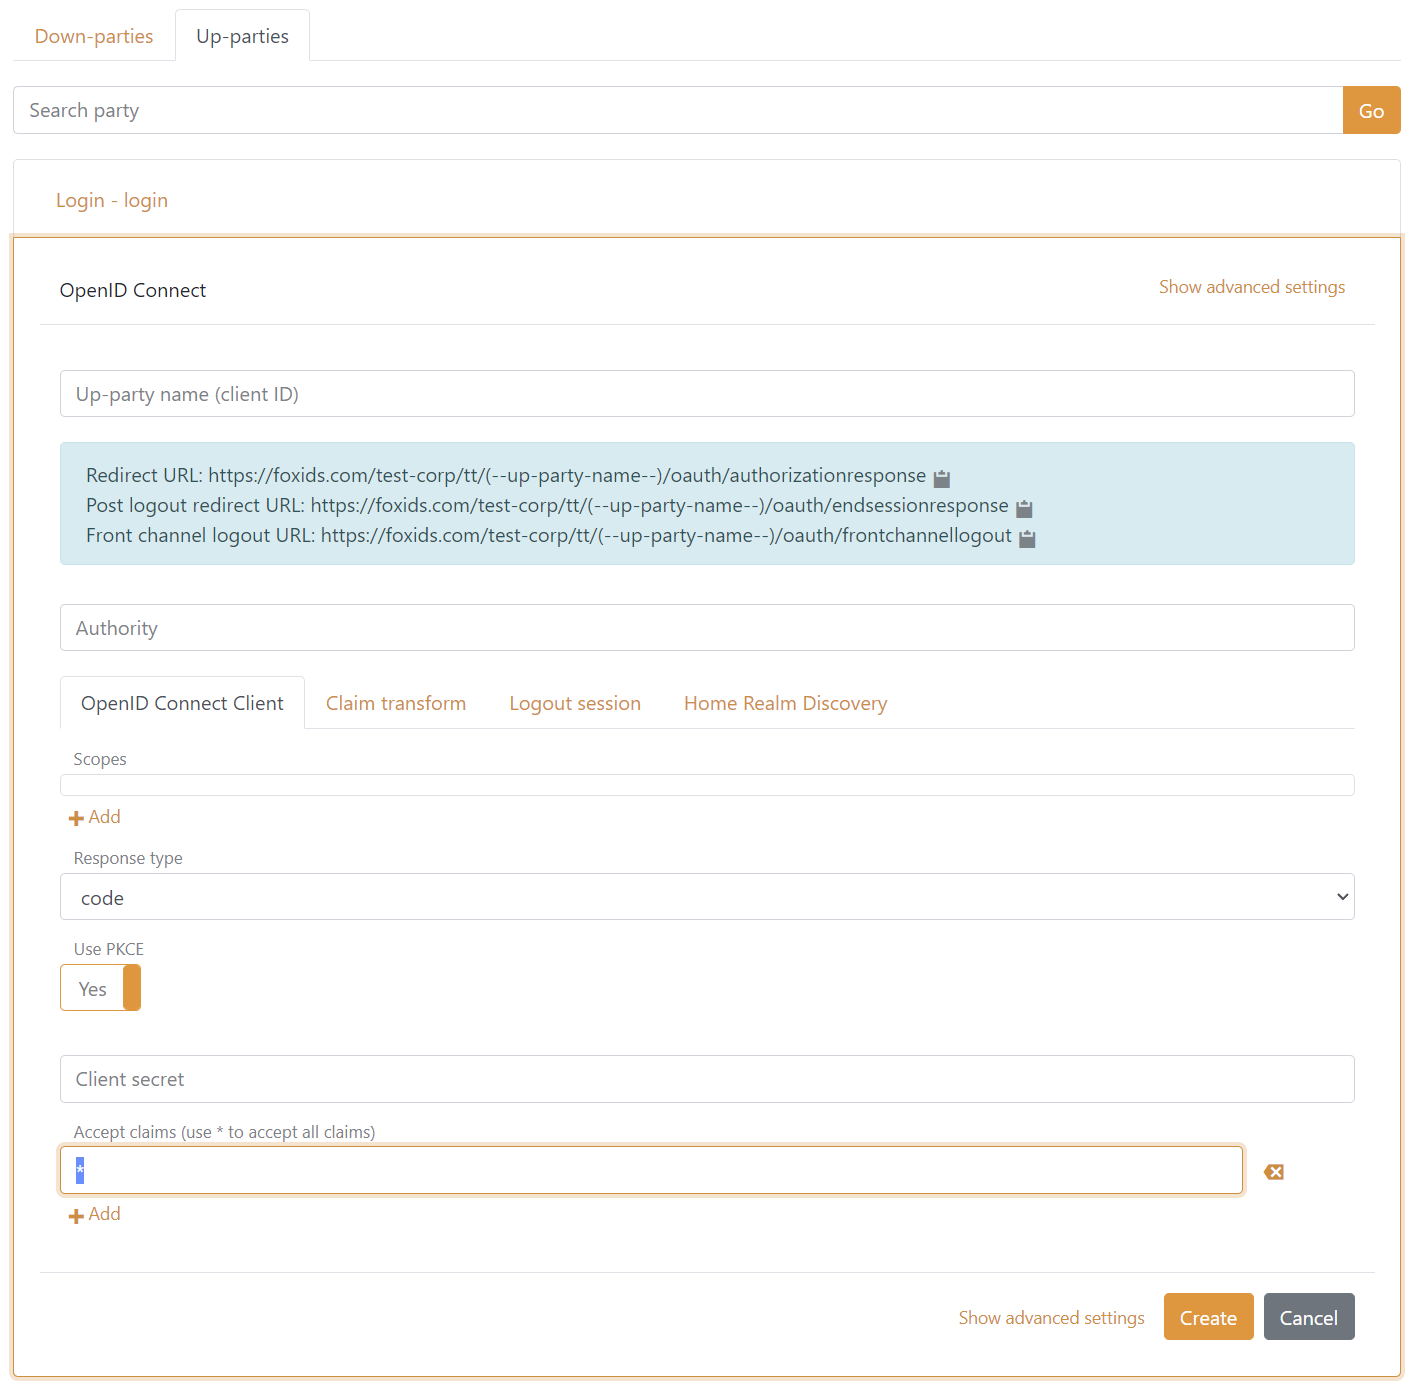
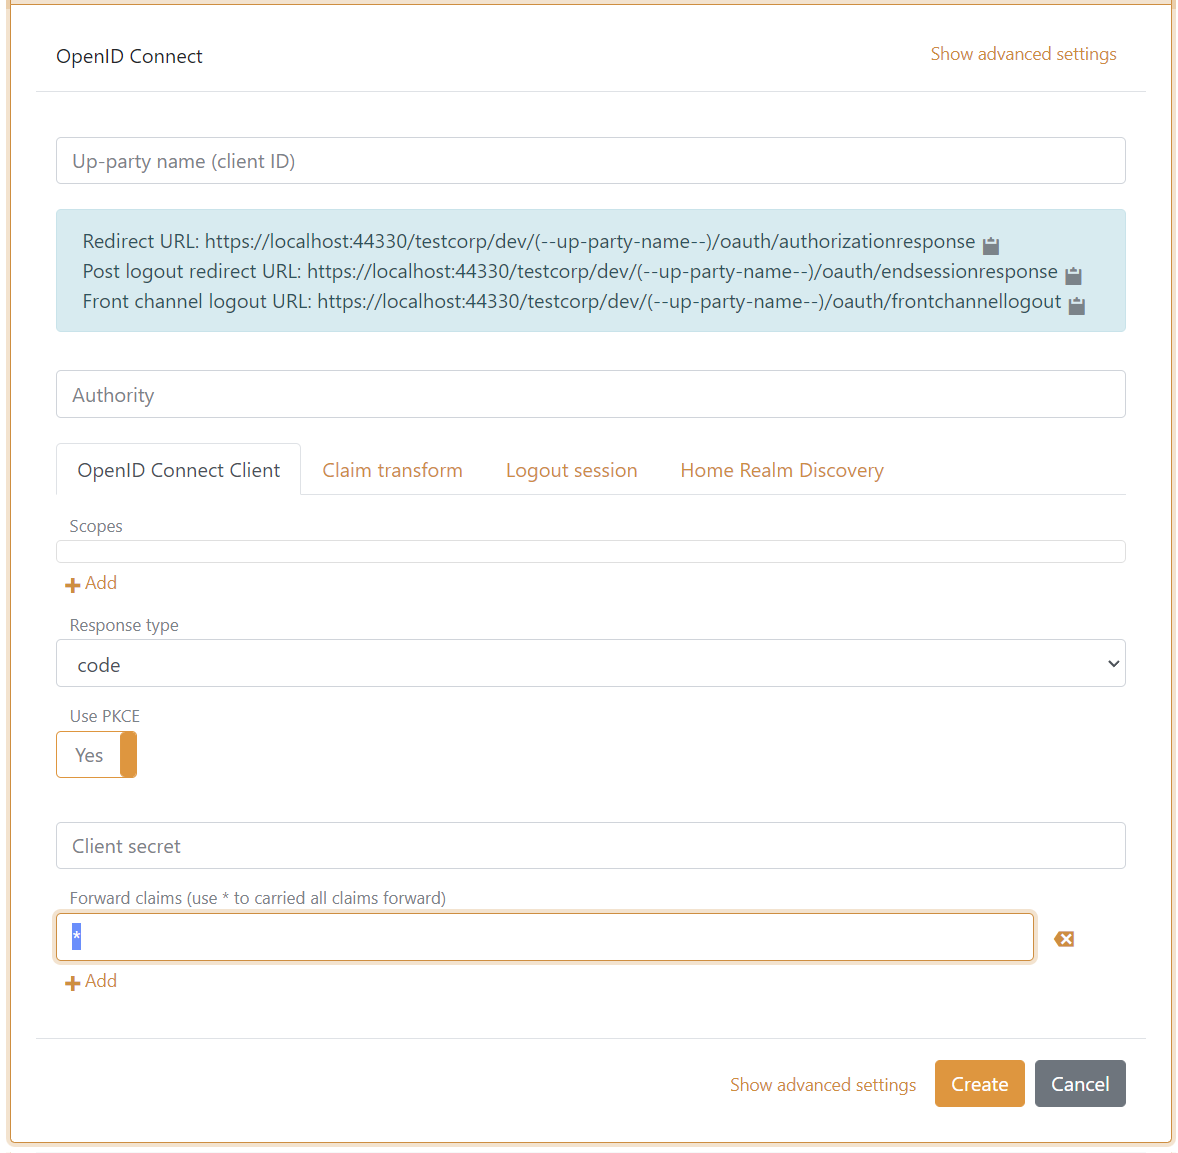
docs claims and Accept claims changed to Forward claims

diff --git a/src/FoxIDs.ControlClient/Models/ViewModels/Parties/OidcUpClientViewModel.cs b/src/FoxIDs.ControlClient/Models/ViewModels/Parties/OidcUpClientViewModel.cs
@@ -16,7 +16,7 @@ namespace FoxIDs.Client.Models.ViewModels
         public List<string> Scopes { get; set; }
 
         [Length(Constants.Models.OAuthUpParty.Client.ClaimsMin, Constants.Models.OAuthUpParty.Client.ClaimsMax, Constants.Models.Claim.JwtTypeLength, Constants.Models.Claim.JwtTypeWildcardRegExPattern)]
-        [Display(Name = "Accept claims (use * to accept all claims)")]
+        [Display(Name = "Forward claims (use * to carried all claims forward)")]
         public List<string> Claims { get; set; }
 
         [Required]

diff --git a/src/FoxIDs.ControlShared/Models/Api/Parties/OidcUpClient.cs b/src/FoxIDs.ControlShared/Models/Api/Parties/OidcUpClient.cs
@@ -16,7 +16,7 @@ namespace FoxIDs.Models.Api
         public List<string> Scopes { get; set; }
 
         [Length(Constants.Models.OAuthUpParty.Client.ClaimsMin, Constants.Models.OAuthUpParty.Client.ClaimsMax, Constants.Models.Claim.JwtTypeLength, Constants.Models.Claim.JwtTypeWildcardRegExPattern)]
-        [Display(Name = "Accept claims (use * to accept all claims)")]
+        [Display(Name = "Forward claims (use * to carried all claims forward)")]
         public List<string> Claims { get; set; }
 
         [Required]

diff --git a/src/FoxIDs.ControlClient/Models/ViewModels/Parties/SamlUpPartyViewModel.cs b/src/FoxIDs.ControlClient/Models/ViewModels/Parties/SamlUpPartyViewModel.cs
@@ -56,7 +56,7 @@ namespace FoxIDs.Client.Models.ViewModels
 
         [ValidateComplexType]
         [Length(Constants.Models.SamlParty.ClaimsMin, Constants.Models.SamlParty.ClaimsMax, Constants.Models.Claim.SamlTypeLength, Constants.Models.Claim.SamlTypeWildcardRegExPattern)]
-        [Display(Name = "Accept claims (use * to accept all claims)")]
+        [Display(Name = "Forward claims (use * to carried all claims forward)")]
         public List<string> Claims { get; set; }
 
         /// <summary>

diff --git a/docs/claim.md b/docs/claim.md
@@ -1,0 +1,22 @@
+# Claims
+
+Claims are processed through each [up-party](#up-party) and [down-party](#down-party), where it is possible to decide, which claims are transferred to the next step and to do [claim transforms](claim-transform.md).
+
+> All claim comparisons are case-sensitive.
+
+The claims process starts in the [up-party](parties.md#up-party) when a user authenticates. There it is possible to do [claim transforms](claim-transform.md) and configure which claims have to be carried forward to the next step.
+Then the claims process continues in the [down-party](parties.md#down-party) where it also is possible do claim transforms and configure which claims have to be issued to the application / API.
+
+In a [Client Credentials Grant](down-party-oauth-2.0.md#client-credentials-grant) scenario, the claims process is only done in the down-party. The same goes for the claim transforms and the configuration of which claims have to be issued to the application / API.
+
+## Up-party
+In both an [OpenID Connect](up-party-oidc.md) and [SAML 2.0](up-party-saml-2.0.md) up-party claims are carried forward by adding them to the `Forward claims` list. All claims are carried forward if a wildcard `*` is added to the `Forward claims` list.
+
+## Down-party
+In both an [OpenID Connect](down-party-oidc.md), [OAuth 2.0](down-party-oauth-2.0.md) and [SAML 2.0](down-party-saml-2.0.md) down-party claims are issued to the application / API by adding them to the `Issue claims` list. All claims are issued to the application / API if a wildcard `*` is added to the `Issue claims` list.
+
+An OpenID Connect down-party can differentiate if a claim is only issued in the access token or also in the ID token.   
+
+
+An OpenID Connect and OAuth 2.0 down-party can carry claims forward by a scope as well. This is done by adding the claim or claims to a scope's `Voluntary claims` list. And the claims are then issued if the client application request for the scope.  
+An OpenID Connect down-party can also in the voluntary scope claims differentiate if a claim is only issued in the access token or also in the ID token.

diff --git a/docs/claim-transform.md b/docs/claim-transform.md
@@ -1,10 +1,10 @@
-# Claim transform
+# Claim transforms
 
 Each FoxIDs up-party and down-party support configuring claim transforms. This means that two sets of claim transforms can be executed on each user authentication. 
 First executing any claim transforms on the up-party and then any claim transforms on the down-party. 
 
 If you create a new claim in a claim transform the claim is per default not send from the up-party to the down-party or from the down-party to the application / API. 
-In a up-party you have to add the claim to the `Accept claims` list to send the claim and in a down-party to the `Issue claims` list or alternative add the claim to a scopes `Voluntary claims` list. 
+In a up-party you have to add the claim to the `Forward claims` list to forward the claim and in a down-party to the `Issue claims` list or alternative add the claim to a scope's `Voluntary claims` list. 
 
 Please see [claim transform examples](#claim-transform-examples)
 

diff --git a/docs/faq.md b/docs/faq.md
@@ -1,7 +1,7 @@
 # FAQ
 
 ##### Only the `sub`, `sid`, `acr` and `amr` claims are pass through. I get more claims from the up-party by using log claims trace. What am I doing wrong?
-By default an up-party should pass through all claims to the down-party if Accept Claims has a `*`.
+By default an up-party should pass through all claims to the down-party if Forward Claims has a `*`.
 ![Up-party default pass through all claims to the down-party](images/faq-pass-through-all-claims-up-party.png)
 You can also make the down-party (OpenID Connect client) add all claims in the access token issued to the application (not default).  
 Navigating to the down-party then click Show advanced settings and add a `*` in the Issue claims field. Optionally also include all claims in the issued ID token.

diff --git a/docs/_sidebar.md b/docs/_sidebar.md
@@ -8,7 +8,7 @@
 - [FoxIDs Control](control.md)
 - Topics
   - [Users](users.md)
-  - [Claim transform](claim-transform.md)
+  - [Claims & Claim transforms](claim.md)
   - [Certificates](certificates.md)
   - [Logging](logging.md)
   - [Email provider](email.md)
